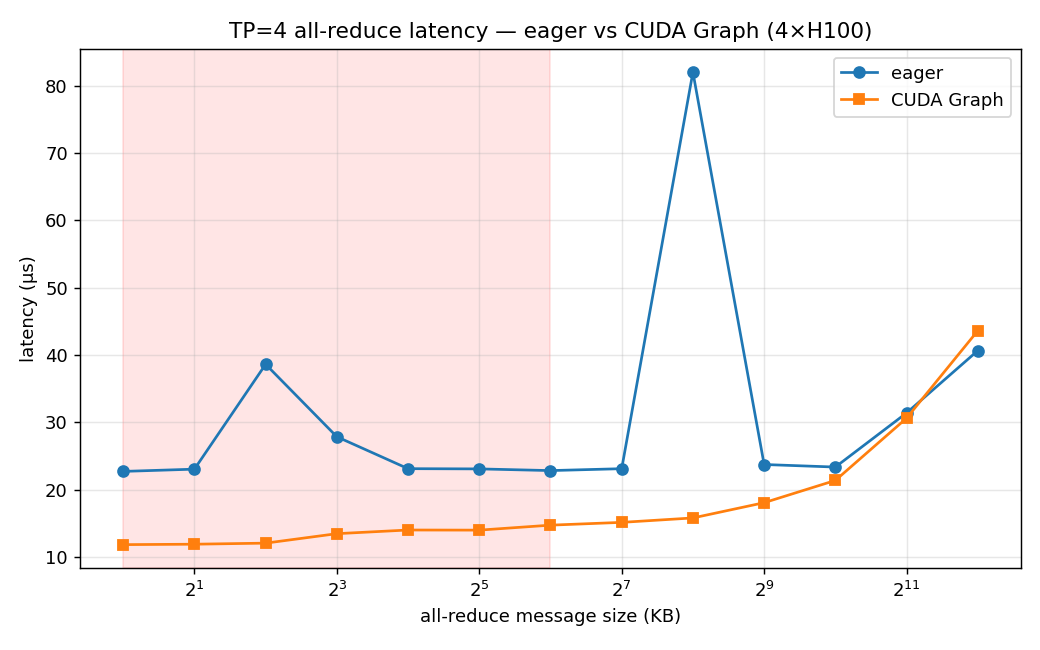
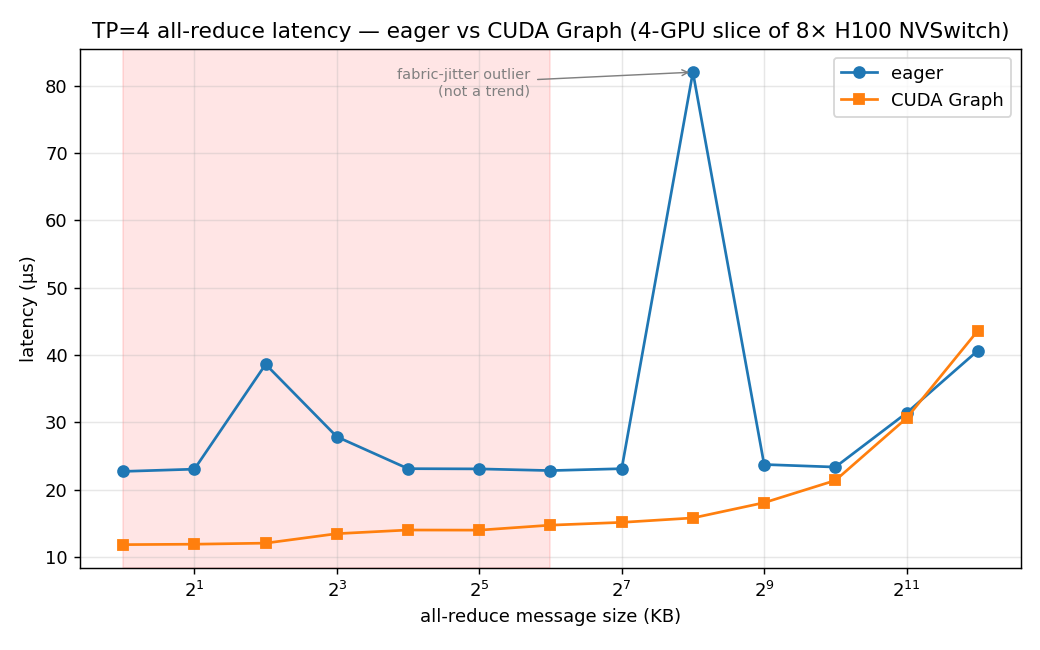
fix(charts,docs): honest 4-GPU-slice scope in titles; annotate eager fabric-jitter outlier
- busbw.png / tp_latency.png titles now say '4-GPU slice of 8x H100 NVSwitch host'
  instead of bare '4x H100', matching the repo's honest hardware convention
- results/report.md header (+ analysis/report.py generator) use the same framing
- tp_latency.png annotates the 82us 256KB eager spike as a fabric-jitter outlier
  (not a trend), placed clear of the legend, lines, and markers
- regenerated all three charts and the two affected reports from committed raw data
- scaling chart/report unchanged (kept committed en-dash)

Changed region(s): [[0.0923, 0.0308, 0.9846, 0.0615], [0.3692, 0.0923, 0.5846, 0.1538], [0.6154, 0.0923, 0.6462, 0.1231]]

diff --git a/tp_latency/roofline.py b/tp_latency/roofline.py
@@ -72,7 +72,7 @@ def write_report(j):
     L = []
     w = L.append
     w("# TP-decode all-reduce: the latency wall, and CUDA Graphs\n")
-    w(f"TP={N} (4× H100, NVSwitch), bf16, {j['iters']} timed iters. "
+    w(f"TP={N} (4-GPU slice of 8× H100 NVSwitch host), bf16, {j['iters']} timed iters. "
       "Decode issues 2 all-reduces/layer at batch=1; each moves only "
       "`hidden×2` bytes, so it is latency-bound, not bandwidth-bound.\n")
 
@@ -132,15 +132,26 @@ def plot(j):
     except Exception:
         return
     xs = [r["bytes"] / 1024 for r in j["size_sweep"]]
+    eager = [r["eager_us"] for r in j["size_sweep"]]
     plt.figure(figsize=(8, 5))
-    plt.plot(xs, [r["eager_us"] for r in j["size_sweep"]], "o-", label="eager")
+    plt.plot(xs, eager, "o-", label="eager")
     plt.plot(xs, [r["graph_us"] for r in j["size_sweep"]], "s-", label="CUDA Graph")
     plt.xscale("log", base=2)
     plt.xlabel("all-reduce message size (KB)")
     plt.ylabel("latency (µs)")
-    plt.title(f"TP={j['world_size']} all-reduce latency — eager vs CUDA Graph (4×H100)")
+    plt.title(
+        f"TP={j['world_size']} all-reduce latency — eager vs CUDA Graph "
+        "(4-GPU slice of 8× H100 NVSwitch)")
     plt.axvspan(1, 64, alpha=0.1, color="red")
-    plt.legend(); plt.grid(True, alpha=0.3)
+    # Honestly flag the single eager outlier (NVSwitch-fabric jitter, see report §1) so it
+    # is not read as a real trend; the robust floor uses the median, not this point.
+    i_out = max(range(len(eager)), key=lambda i: eager[i])
+    plt.annotate("fabric-jitter outlier\n(not a trend)",
+                 (xs[i_out], eager[i_out]),
+                 textcoords="offset points", xytext=(-90, -6), ha="right", va="center",
+                 fontsize=8, color="gray",
+                 arrowprops=dict(arrowstyle="->", color="gray", lw=0.8))
+    plt.legend(loc="upper right"); plt.grid(True, alpha=0.3)
     plt.tight_layout(); plt.savefig("results/tp_latency.png", dpi=130)
     print("wrote results/tp_latency.png")
 

diff --git a/analysis/report.py b/analysis/report.py
@@ -66,8 +66,9 @@ def fmt_size(b):
 def main():
     lines = []
     w = lines.append
-    w("# NCCL Collectives on 4× H100 (NVLink / NVSwitch) — Results\n")
-    w("Single-node, 4× H100 80GB SXM5, intra-node NVSwitch (all pairs NV18). "
+    w("# NCCL Collectives on a 4-GPU slice of an 8× H100 NVSwitch host — Results\n")
+    w("Single-node, 4-GPU slice of an 8× H100 80GB SXM5 NVSwitch host (all pairs NV18; "
+      "the scaling study sweeps 2/4/6 GPUs). "
       "Driver 580.159.03, NCCL 2.18.3, nccl-tests, `-g 4 -w 5 -n 50`, sizes 8 B → 8 GB.\n")
     w(f"**NVLink budget (measured):** {NVLINK_LINKS} links × {NVLINK_PER_LINK_GBS} GB/s "
       f"= **{UNI:.0f} GB/s** per-GPU unidirectional.\n")

diff --git a/analysis/plot.py b/analysis/plot.py
@@ -11,6 +11,6 @@ for csvf in sorted(glob.glob("results/*.csv")):
     if xs:
         plt.plot(xs, ys, marker=".", label=os.path.basename(csvf).replace(".csv", ""))
 plt.xscale("log", base=2); plt.xlabel("message size (bytes)"); plt.ylabel("bus bandwidth (GB/s)")
-plt.title("NCCL collectives — 4× H100 (NVSwitch host)"); plt.legend(framealpha=1.0); plt.grid(True, alpha=0.3)
+plt.title("NCCL collectives — 4-GPU slice of 8× H100 NVSwitch host"); plt.legend(framealpha=1.0); plt.grid(True, alpha=0.3)
 plt.tight_layout(); plt.savefig("results/busbw.png", dpi=130)
 print("wrote results/busbw.png")

diff --git a/README.md b/README.md
@@ -58,7 +58,7 @@ NVLink budget (measured via `nvidia-smi nvlink --status`): 18 links × 26.562 GB
 
 **Bus bandwidth vs message size: all three collectives sit on a ~23 µs latency floor below ~1 MB, then ramp toward NVLink saturation (~340–366 GB/s) past a few MB — all_reduce leads at every size:**
 
-![Bus bandwidth (GB/s) vs message size for all_reduce, all_gather, and reduce_scatter on 4× H100 NVLink](results/busbw.png)
+![Bus bandwidth (GB/s) vs message size for all_reduce, all_gather, and reduce_scatter on a 4-GPU slice of an 8× H100 NVSwitch host](results/busbw.png)
 
 **Algorithm study (all_reduce busbw):** NVLS (NVLink SHARP, in-network reduction on NVSwitch)
 beats Ring at every size — 376 vs 366 GB/s @8GB, 359 vs 340 @256MB — and Tree (259 GB/s,
@@ -91,7 +91,7 @@ and an analytical comms-roofline for TP=N decode validated against measurement.
 
 **TP=4 all-reduce latency in the decode regime: CUDA-Graph capture flattens the ~22 µs eager floor (and its launch-jitter spikes) to a stable ~12–16 µs across the small (≤64 KB, shaded) message sizes a TP decode actually uses:**
 
-![TP=4 all-reduce latency vs message size, eager vs CUDA Graph, on 4× H100](results/tp_latency.png)
+![TP=4 all-reduce latency vs message size, eager vs CUDA Graph, on a 4-GPU slice of an 8× H100 NVSwitch host](results/tp_latency.png)
 
 ---
 

diff --git a/results/report.md b/results/report.md
@@ -1,6 +1,6 @@
-# NCCL Collectives on 4× H100 (NVLink / NVSwitch) — Results
+# NCCL Collectives on a 4-GPU slice of an 8× H100 NVSwitch host — Results
 
-Single-node, 4× H100 80GB SXM5, intra-node NVSwitch (all pairs NV18). Driver 580.159.03, NCCL 2.18.3, nccl-tests, `-g 4 -w 5 -n 50`, sizes 8 B → 8 GB.
+Single-node, 4-GPU slice of an 8× H100 80GB SXM5 NVSwitch host (all pairs NV18; the scaling study sweeps 2/4/6 GPUs). Driver 580.159.03, NCCL 2.18.3, nccl-tests, `-g 4 -w 5 -n 50`, sizes 8 B → 8 GB.
 
 **NVLink budget (measured):** 18 links × 26.562 GB/s = **478 GB/s** per-GPU unidirectional.
 

diff --git a/results/tp_latency_report.md b/results/tp_latency_report.md
@@ -1,6 +1,6 @@
 # TP-decode all-reduce: the latency wall, and CUDA Graphs
 
-TP=4 (4× H100, NVSwitch), bf16, 200 timed iters. Decode issues 2 all-reduces/layer at batch=1; each moves only `hidden×2` bytes, so it is latency-bound, not bandwidth-bound.
+TP=4 (4-GPU slice of 8× H100 NVSwitch host), bf16, 200 timed iters. Decode issues 2 all-reduces/layer at batch=1; each moves only `hidden×2` bytes, so it is latency-bound, not bandwidth-bound.
 
 ## 1. Eager vs CUDA-Graph all-reduce latency (size sweep)
 